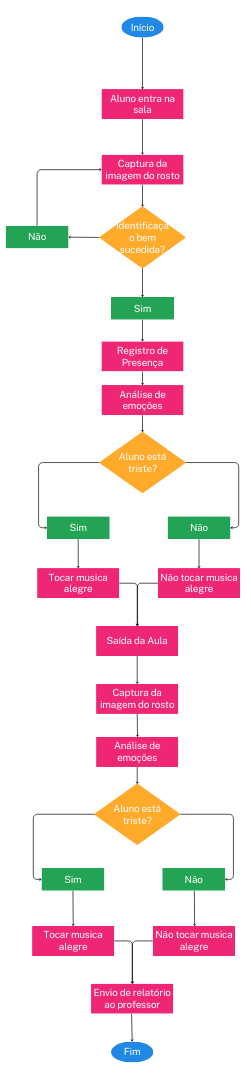
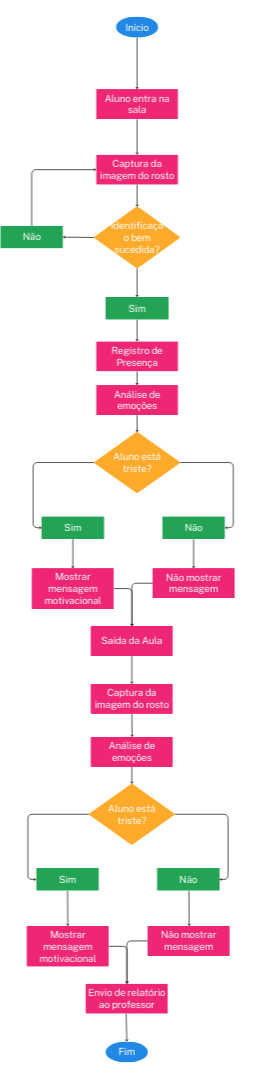
Alteração projeto final HTML

diff --git a/Projeto Final/index.html b/Projeto Final/index.html
@@ -30,7 +30,7 @@
     <h2>Contexto</h2>
     <ul>
         <li><strong>Objetivo do Projeto:</strong> O projeto visa utilizar tecnologia de visão computacional e reconhecimento facial para monitorar o humor 
-            dos alunos em tempo real. O objetivo é registrar a presença, avaliar o bem-estar emocional dos alunos e adaptar a experiência educacional com 
+            dos alunos antes e após a aula. O objetivo é registrar a presença, avaliar o bem-estar emocional dos alunos e adaptar a experiência educacional com 
             base nas suas necessidades emocionais. Isso permitirá ao professor entender melhor a dinâmica da aula e ajustar suas abordagens pedagógicas para 
             melhorar o engajamento e a satisfação dos alunos.</li>
         <li><strong>Tecnologia Utilizada:</strong>
@@ -38,7 +38,6 @@
                 <li><strong>Reconhecimento Facial:</strong> Para identificar os alunos e registrar sua presença.</li>
                 <li><strong>Análise de Emoções:</strong> Para determinar o humor dos alunos com base em expressões faciais.</li>
                 <li><strong>Mecanismo de Geração de Relatórios:</strong> Para compilar e apresentar dados sobre o humor dos alunos ao professor.</li>
-                <li><strong>Sistema de Áudio:</strong> Para tocar músicas específicas com base no humor detectado.</li>
             </ul>
         </li>
     </ul>
@@ -48,24 +47,17 @@
         <li><strong>Entrada na Sala de Aula:</strong>
             <ul>
                 <li><strong>Cenário:</strong> Um aluno entra na sala e é recebido por uma câmera posicionada na entrada. A câmera captura a imagem do rosto do aluno e o sistema realiza o reconhecimento facial para registrar a presença.</li>
-                <li><strong>Processo:</strong> O sistema analisa a expressão facial do aluno para determinar seu humor atual. Se o aluno parecer triste, o sistema pode tocar uma música alegre para melhorar seu estado emocional.</li>
+                <li><strong>Processo:</strong> O sistema analisa a expressão facial do aluno para determinar seu humor atual. Se o aluno parecer triste, o sistema irá mostrar uma mensagem motivacional para melhorar seu estado emocional.</li>
             </ul>
-        </li>
-        <li><strong>Durante a Aula:</strong>
-            <ul>
-                <li><strong>Cenário:</strong> O professor pode monitorar em tempo real os níveis de humor dos alunos. Se muitos alunos parecerem desinteressados ou tristes, o professor pode ajustar a abordagem da aula ou fazer uma pausa para uma atividade mais interativa.</li>
-                <li><strong>Processo:</strong> O sistema pode coletar dados sobre o humor dos alunos em intervalos regulares e gerar alertas para o professor se houver uma mudança significativa no estado emocional da turma.</li>
-            </ul>
-        </li>
         <li><strong>Saída da Sala de Aula:</strong>
             <ul>
                 <li><strong>Cenário:</strong> Ao final da aula, os alunos passam novamente pela câmera para registrar a saída. O sistema realiza uma nova análise do humor para comparar com o humor registrado no início da aula.</li>
-                <li><strong>Processo:</strong> O sistema gera um relatório detalhado mostrando o humor inicial e final dos alunos, destacando quaisquer mudanças significativas. Esse relatório é enviado ao professor para avaliação.</li>
+                <li><strong>Processo:</strong> O sistema gera um relatório mostrando o humor inicial e final dos alunos, destacando mudanças significativas. Esse relatório é disponibilizado ao professor na máquina local para avaliação.</li>
             </ul>
         </li>
         <li><strong>Relatórios e Feedback:</strong>
             <ul>
-                <li><strong>Cenário:</strong> O professor recebe relatórios periódicos sobre o humor dos alunos. Estes relatórios incluem gráficos e análises das variações de humor ao longo do tempo.</li>
+                <li><strong>Cenário:</strong> O professor visualiza o relatório sobre o humor dos alunos. Este relatório inclue análises das variações de humor no início e fim da aula.</li>
                 <li><strong>Processo:</strong> O professor pode usar essas informações para entender melhor a eficácia das suas aulas e ajustar o planejamento de acordo com as necessidades emocionais dos alunos.</li>
             </ul>
         </li>
@@ -75,15 +67,7 @@
     <ul>
         <li><strong>Privacidade e Ética:</strong> Certifique-se de que o projeto respeite a privacidade dos alunos e obtenha o consentimento necessário para o uso de suas imagens e dados emocionais.</li>
         <li><strong>Precisão da Análise de Emoções:</strong> A precisão do sistema de análise de emoções pode variar. É importante testar e ajustar o sistema para minimizar erros e garantir que as intervenções baseadas no humor sejam apropriadas.</li>
-        <li><strong>Feedback dos Alunos e Professores:</strong> Inclua um mecanismo para obter feedback dos usuários (alunos e professores) para avaliar a eficácia do sistema e realizar melhorias contínuas.</li>
     </ul>
-
-
-
-
-
-
-
 
             <!-------------------------------------------------->
             <!----------Modelagem Funcional de Sistema---------->
@@ -91,14 +75,6 @@
             <hr />
             <h2>Modelagem funcional do sistema - Diagrama de Fluxo</h2>
             <img src="fluxograma.png" width="" height="">
-
-
-
-
-
-
-
-
 
 
             <h2>Explicação do Diagrama de Fluxo</h2>
@@ -140,8 +116,8 @@
                 <h3>6. Decisão de Humor</h3>
                 <ul>
                     <li>Decisão: O aluno está triste?</li>
-                    <li>Sim: Tocar uma música alegre para melhorar o estado emocional do aluno.</li>
-                    <li>Não: Não tocar música ou tocar música neutra.</li>
+                    <li>Sim: Mostrar uma mensagem motivacional para melhorar o estado emocional do aluno.</li>
+                    <li>Não: Não apresenta mensagem.</li>
                 </ul>
             </div>
             
@@ -163,22 +139,21 @@
                 <h3>9. Geração de Relatório</h3>
                 <ul>
                     <li>Ação: O sistema gera um relatório com o humor inicial e final dos alunos.</li>
-                    <li>Decisão: O humor mudou significativamente?</li>
-                    <li>Sim: Destacar as mudanças significativas no relatório.</li>
-                    <li>Não: Relatar o humor como está.</li>
                 </ul>
             </div>
             
             <div class="step">
-                <h3>10. Envio de Relatório ao Professor</h3>
+                <h3>10. Disponibilização do Relatório ao Professor</h3>
                 <ul>
-                    <li>Ação: Envio do relatório detalhado para o professor.</li>
+                    <li>Ação: Disponibilização do relatório para o professor.</li>
                 </ul>
             </div>
             
             <div class="step">
                 <h3>11. Fim</h3>
             </div>
+            <hr>
+            <a href="../index.html">Voltar para a Página Inicial</a>
         </div>
     </div>
 </body>
